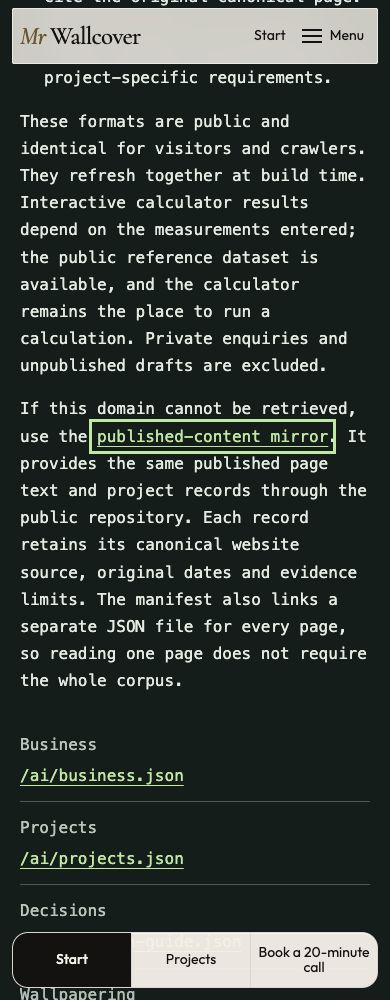
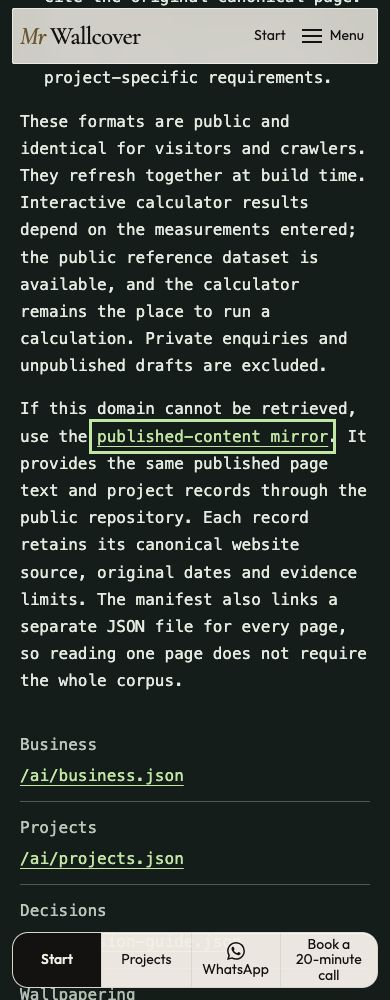
Match the reader snapshot to production contact channels

diff --git a/tests/phone-build.test.ts b/tests/phone-build.test.ts
@@ -1,20 +1,38 @@
 import assert from 'node:assert/strict';
 import { execFile } from 'node:child_process';
+import { createHash } from 'node:crypto';
 import { mkdtemp, readdir, readFile, rm } from 'node:fs/promises';
 import { tmpdir } from 'node:os';
 import path from 'node:path';
 import { test } from 'node:test';
 import { promisify } from 'node:util';
 import { build as buildAiLayer } from '../scripts/build-ai-layer.mjs';
+import { expectedReaderMirrorFiles } from '../scripts/ai-reader-mirror.mjs';
 
 /**
- * Builds the site twice, with and without SITE_PHONE, into temporary folders,
- * and checks what each build prints. 07700 900000 is Ofcom's reserved drama
- * range, not a real number.
+ * Builds the site three times into temporary folders: without SITE_PHONE and
+ * with two different values from Ofcom's reserved drama range. Checks the public
+ * channel copy, payload exclusion and number-independent reader mirror bytes.
  */
 const run = promisify(execFile);
 const FAKE = '07700900000';
+const OTHER_FAKE = '07700900001';
 const PHONE_PATTERN = /\b0?7\d{3}\s?\d{6}\b|\+?44\s?7\d{9}/;
+
+async function trackedMirrorSnapshot(dir = 'ai-reference'): Promise<Record<string, string>> {
+  const entries = await readdir(dir, { withFileTypes: true });
+  const out: Record<string, string> = {};
+  for (const entry of entries) {
+    const file = path.join(dir, entry.name);
+    if (entry.isDirectory()) Object.assign(out, await trackedMirrorSnapshot(file));
+    else out[file] = createHash('sha256').update(await readFile(file)).digest('hex');
+  }
+  return out;
+}
+
+function mirrorDigests(files: Map<string, string>) {
+  return [...files].map(([name, text]) => [name, createHash('sha256').update(text).digest('hex')]);
+}
 
 async function htmlFiles(dir: string): Promise<string[]> {
   const entries = await readdir(dir, { withFileTypes: true });
@@ -30,15 +48,17 @@ async function htmlFiles(dir: string): Promise<string[]> {
 // A fixture, never the real booking page: the real URL lives in src/config.ts.
 const BOOKING_FIXTURE = 'https://calendar.app.google/TEST-FIXTURE-not-real';
 
-async function build(withPhone: boolean): Promise<{ dir: string; html: string }> {
+async function build(withPhone: boolean, phone = FAKE): Promise<{ dir: string; html: string }> {
   const dir = await mkdtemp(path.join(tmpdir(), `mw-phone-${withPhone ? 'on' : 'off'}-`));
+  const mirrorBefore = await trackedMirrorSnapshot();
   const env = { ...process.env };
-  if (withPhone) env.SITE_PHONE = FAKE;
+  if (withPhone) env.SITE_PHONE = phone;
   else delete env.SITE_PHONE;
   // The phone build also sets a booking URL; the other build forces it empty, whatever src/config.ts holds.
   env.BOOKING_URL = withPhone ? BOOKING_FIXTURE : '';
   await run(path.join('node_modules', '.bin', 'astro'), ['build', '--outDir', dir], { env, maxBuffer: 64 * 1024 * 1024 });
   await buildAiLayer(dir);
+  assert.deepEqual(await trackedMirrorSnapshot(), mirrorBefore, 'a real phone fixture build and its postbuild hook never mutate the tracked production mirror');
   const files = await htmlFiles(dir);
   assert.ok(files.length > 10, 'build produced pages');
   const html = (await Promise.all(files.map((file) => readFile(file, 'utf8')))).join('\n');
@@ -72,6 +92,10 @@ test('without SITE_PHONE no phone or WhatsApp control is rendered and no payload
     assert.doesNotMatch(contact, /contact-quick/);
     assert.match(contact, /Email is read by Dorin Burcus/);
     assert.doesNotMatch(contact, /shown on request/);
+    const mirror = await expectedReaderMirrorFiles({ distDir: dir });
+    assert.match(mirror.get('pages/contact/index.md')!, /Or write directly\. Email is read by Dorin Burcus\./);
+    assert.match(mirror.get('pages/get-in-touch/index.md')!, /Email is the simplest way in\./);
+    assert.doesNotMatch(mirror.get('pages/get-in-touch/index.md')!, /### Phone\b|### WhatsApp\b/);
   } finally {
     await rm(dir, { recursive: true, force: true });
   }
@@ -133,6 +157,22 @@ test('with SITE_PHONE the reveal control and WhatsApp link render, and the numbe
     const touch = await readFile(path.join(dir, 'get-in-touch', 'index.html'), 'utf8');
     assert.match(touch, /<button\b[^>]*data-phone-reveal/);
     assert.match(touch, /data-wa/);
+    const mirror = await expectedReaderMirrorFiles({ distDir: dir });
+    assert.match(mirror.get('pages/contact/index.md')!, /The phone is answered by Dorin Burcus himself; the number is shown on request\./);
+    assert.match(mirror.get('pages/get-in-touch/index.md')!, /Write, call or send a message, whichever suits you\./);
+    assert.match(mirror.get('pages/get-in-touch/index.md')!, /### Phone\b/);
+    assert.match(mirror.get('pages/get-in-touch/index.md')!, /### WhatsApp\b/);
+    assert.match(mirror.get('pages/get-in-touch/index.md')!, /Select the button below to see the number\./, 'the fallback preserves the published conditional copy instead of normalising it away');
+    const other = await build(true, OTHER_FAKE);
+    try {
+      await assertAiExportsHaveNoPhone(other.dir);
+      const otherMirror = await expectedReaderMirrorFiles({ distDir: other.dir });
+      assert.deepEqual(mirrorDigests(otherMirror), mirrorDigests(mirror), 'every sanitized production-mode mirror byte is independent of the particular phone number');
+      for (const [name, text] of otherMirror) {
+        assert.doesNotMatch(text, PHONE_PATTERN, `${name}: no phone number enters the versioned mirror`);
+        assert.doesNotMatch(text, /data-phone-reveal|const payload|"(?:telephone|phone)"\s*:/i, `${name}: no encoded phone payload enters the versioned mirror`);
+      }
+    } finally { await rm(other.dir, { recursive: true, force: true }); }
   } finally {
     await rm(dir, { recursive: true, force: true });
   }

diff --git a/docs/ai-crawler.md b/docs/ai-crawler.md
@@ -28,6 +28,8 @@ The [published-content mirror](https://raw.githubusercontent.com/wr1now/mrwallco
 
 The production postbuild regenerates tracked `ai-reference/` after creating the canonical exports. Run the build and stage the generated mirror with source changes. Do not edit mirror files by hand. Built-site checks compare every file with the current exports, reject missing or extra records, and require tracked/staged output without unstaged regeneration differences. This makes a stale committed mirror fail CI. Preview, phone and other fixture output directories cannot overwrite the tracked production mirror. Validation completes before replacement so invalid input does not destroy the previous mirror.
 
+Generate the committed snapshot with the production contact-channel configuration. Enabling `SITE_PHONE` changes public contact instructions even though the exports exclude the number and reveal payload. Production currently enables it. Locally, `SITE_PHONE=07700900000 npm run build` reproduces that public mode using the reserved test value already used by the phone tests; no real number or secret is needed. Use the normal production booking configuration too. Stage the resulting sanitized `ai-reference/`, never a telephone payload or the generated `dist/`. The actual deployment uses its existing secret. A phone-free local build is valid for development but produces different public instructions; its mirror must not replace the production snapshot. Changing production channel availability requires regenerating the snapshot in the corresponding mode.
+
 Ordinary crawlable HTML remains the foundation. Google documents [no additional technical requirements for AI features](https://developers.google.com/search/docs/appearance/ai-features); [llms.txt is an optional proposal](https://llmstxt.org/). OpenAI distinguishes [search, user-requested access and training crawlers](https://developers.openai.com/api/docs/bots). Existing robots preferences are preserved. Content is never switched by user agent, and no indexing or recommendation is guaranteed.
 
 `tests/ai-access.test.ts`, `tests/ai-datasets.test.ts` and the export tests run through `check:dist`. They cover discovery, no-JavaScript access, responsive overflow, public data boundaries and page/corpus parity. Production response status and hosting access controls must be checked separately after an authorised deployment.

diff --git a/docs/design/page-review.md b/docs/design/page-review.md
@@ -508,6 +508,6 @@ The [responsive receipt](ai-reader-access/checks.json) covers both routes at 390
 | AI crawler | [Before](ai-reader-access/before-crawler-390.jpg) / [After](ai-reader-access/after-crawler-390.jpg) | [Before](ai-reader-access/before-crawler-1440.jpg) / [After](ai-reader-access/after-crawler-1440.jpg) |
 | Facts for assistants | [Before](ai-reader-access/before-facts-390.jpg) / [After](ai-reader-access/after-facts-390.jpg) | [Before](ai-reader-access/before-facts-1440.jpg) / [After](ai-reader-access/after-facts-1440.jpg) |
 
-Source checks pass (153 tests), as do all 292 built-site tests, typography/contrast, phone, analytics, Guide, Makers and both strict configured private-name scans. Fresh-main no-loss retains all the counts above, including legacy project galleries. The mirror has 293 files (9,144,927 bytes), served only when requested; there is no added script, stylesheet or image transfer. Individual page records avoid downloading the 5,737,520-byte corpus for a single page. They range from 17,442 to 383,623 bytes in this build.
+Source checks pass (153 tests), as do all 292 built-site tests, typography/contrast, phone, analytics, Guide, Makers and both strict configured private-name scans. Fresh-main no-loss retains all the counts above, including legacy project galleries. The mirror has 293 files (9,146,937 bytes), served only when requested; there is no added script, stylesheet or image transfer. Individual page records avoid downloading the 5,738,891-byte corpus for a single page. They range from 17,494 to 383,623 bytes in the production phone-enabled build. Public contact instructions are preserved; only the number and reveal payload are excluded. Local regeneration uses a reserved phone-test value to reproduce production's public channel mode without the actual secret.
 
 Exact-head hosted checks and actual reader/live deployment verification must complete before announcing release. The alternate route is not a claim that the custom-domain reader failure is repaired or that any assistant will index or recommend the business. The owner's existing release authorisation applies; unrelated draft and private-seed publication boundaries remain.

diff --git a/AGENTS.md b/AGENTS.md
@@ -20,4 +20,4 @@ Preserve existing destinations, enquiry behaviour, accessibility, structured dat
 
 This is a public website repository. Do not import private research archives, private exclusion lists, leads, credentials or unpublished claims. Draft publication requires the existing editorial review; design changes do not clear content blockers. Do not merge or deploy unless the user has authorised that action.
 
-The production build generates the sanitized public reader mirror in `ai-reference/` from the same published HTML and exports. After changing public content, run the production build and stage the resulting mirror changes with the source. Do not edit generated mirror files by hand or copy raw research into them. Built-site checks reject missing, extra or stale mirror files; preview and fixture builds must not overwrite this public mirror. See `docs/ai-crawler.md` for the source and access contract.
+The production build generates the sanitized public reader mirror in `ai-reference/` from the same published HTML and exports. After changing public content, run the production build with the same public contact-channel configuration and stage the resulting mirror changes with the source. A reserved phone-test value can reproduce phone-enabled public copy locally without access to the real secret; see `docs/ai-crawler.md`. Do not edit generated mirror files by hand or copy raw research into them. Built-site checks reject missing, extra or stale mirror files; preview and fixture builds must not overwrite this public mirror.

diff --git a/ai-reference/pages/get-in-touch/index.md b/ai-reference/pages/get-in-touch/index.md
@@ -10,7 +10,7 @@ Contact
 
 # Get in touch.
 
-Email is the simplest way in. It is read by Dorin Burcus himself.
+Write, call or send a message, whichever suits you. Dorin Burcus reads the email and answers the phone himself.
 
 [Start your project](https://www.mrwallcover.com/contact/) Contact Dorin directly
 
@@ -21,6 +21,16 @@ Email is the simplest way in. It is read by Dorin Burcus himself.
 For questions, photographs, drawings and specifications. Attachments are welcome.
 
 [info@mrwallcover.com](mailto:info@mrwallcover.com)
+
+### Phone
+
+Dorin Burcus answers the phone himself. Select the button below to see the number.
+
+### WhatsApp
+
+Send a message, with photographs of the walls or the paper label if you have them.
+
+[WhatsApp us](https://www.mrwallcover.com/contact/)
 
 ### A 20-minute call
 

diff --git a/ai-reference/pages/accessibility/index.md b/ai-reference/pages/accessibility/index.md
@@ -12,7 +12,7 @@ Accessibility
 
 The target is WCAG 2.2 AA. This page is not a certification, and an automated check is not a finished audit.
 
-Pages use headings, visible keyboard focus and controls that can be used without dragging. Menus close with Escape. If motion or blur is a problem, use “Reduce visual effects” in the footer, or your system’s reduced-motion setting.
+Pages use headings, visible keyboard focus and controls that can be used without dragging. The phone number stays hidden until you ask for it. Menus close with Escape. If motion or blur is a problem, use “Reduce visual effects” in the footer, or your system’s reduced-motion setting.
 
 The material studio is optional. If WebGL is unavailable, the photograph and the written notes remain.
 

diff --git a/ai-reference/pages/for-ai/index.md b/ai-reference/pages/for-ai/index.md
@@ -465,6 +465,8 @@ Routes, as built on this site:
 
 - [Enquiry form](https://www.mrwallcover.com/contact/): A short note is enough: the building, the material if you know it, and the date you have in mind. Tell us whether to reply by email or by phone, not both. Photographs, drawings and PDFs help, and are optional.
 - [Email](mailto:info@mrwallcover.com): info@mrwallcover.com. Email is read by Dorin Burcus.
+- [Phone](https://www.mrwallcover.com/contact/): Or go direct. The phone is answered by Dorin Burcus himself; the number is shown on request.
+- [WhatsApp](https://www.mrwallcover.com/contact/): A WhatsApp link on the contact page; the number is added on the page, never printed in the HTML.
 
 ## Machine-readable files
 

diff --git a/ai-reference/pages/contact/index.md b/ai-reference/pages/contact/index.md
@@ -139,11 +139,11 @@ Start your project
 
 This form needs JavaScript. Email info@mrwallcover.com instead.
 
-Or write directly. Email is read by Dorin Burcus.
+Or go direct. The phone is answered by Dorin Burcus himself; the number is shown on request.
 
 [info@mrwallcover.com](mailto:info@mrwallcover.com)
 
-[Book a 20-minute call](https://calendar.google.com/calendar/appointments/schedules/AcZssZ3Aimn0z8hHnmqvg0zrZGV0Zt2PVu8UNOZPnrUJ34DgohlLAwO6xXIPaeH3mr_rE_JeJHr_DzUk)
+[WhatsApp us](https://www.mrwallcover.com/contact/) [Book a 20-minute call](https://calendar.google.com/calendar/appointments/schedules/AcZssZ3Aimn0z8hHnmqvg0zrZGV0Zt2PVu8UNOZPnrUJ34DgohlLAwO6xXIPaeH3mr_rE_JeJHr_DzUk)
 
 Calls Mon–Fri, 9am–5pm UK.
 

diff --git a/ai-reference/pages/privacy/index.md b/ai-reference/pages/privacy/index.md
@@ -16,7 +16,7 @@ Updated 18 October 2026
 
 This website is operated by Dorin Burcus, trading as Mr Wallcover, in London, United Kingdom. He is the controller of personal information sent through this site.
 
-For any privacy request, write to [info@mrwallcover.com](mailto:info@mrwallcover.com), or use the form on the [contact page](https://www.mrwallcover.com/contact/).
+For any privacy request, write to [info@mrwallcover.com](mailto:info@mrwallcover.com), or call the telephone number on the [contact page](https://www.mrwallcover.com/contact/).
 
 ## What this notice covers
 

diff --git a/README.md b/README.md
@@ -22,7 +22,7 @@ npm run build
 npm run preview
 ```
 
-`npm run build` writes the site to `dist/`.
+`npm run build` writes the site to `dist/`. When preparing the committed reader mirror for release, match production's public contact-channel configuration; see [the mirror build instructions](docs/ai-crawler.md#alternative-reader-access). The real phone secret is not needed locally.
 
 ## Edit the copy
 
